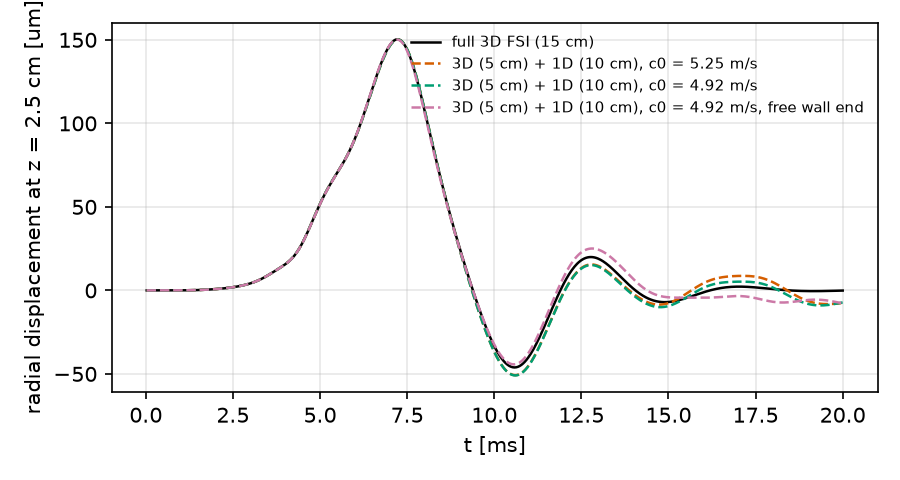
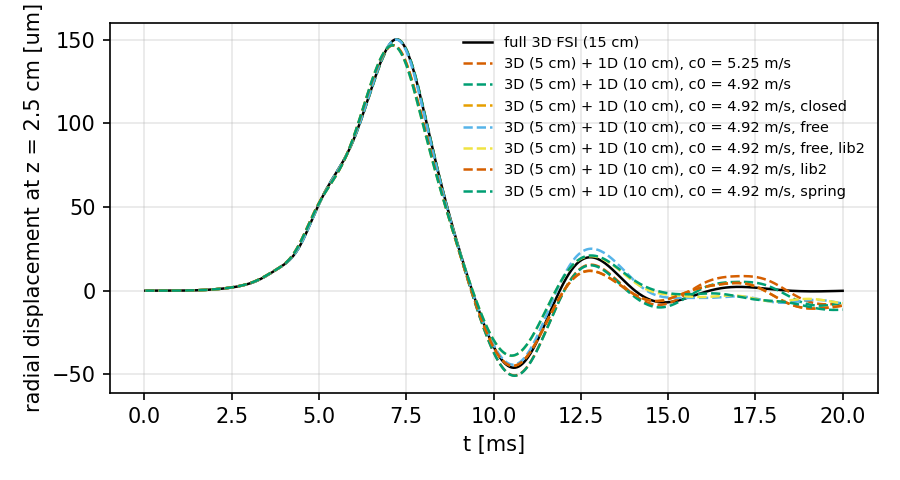
formaggia2007: the wall's cut end on an elastic support (item 8a)
--springEnd: solidSpringDashpot on the cut with the semi-infinite shell's
edge stiffness 2 D beta^3 / h (1.04e7 Pa/m), free axially. All end
conditions compared within one build of solids4foam (the installed
library lacks the condition; the build also moves the FSI results by a
few percent, so full3D_lib2 and the _lib2 reruns are the references for
it; analyse.py picks the reference by run name, and the closed-end runs
by full3D_closed). The spring end behaves nearly as the free end (the
edge stiffness is a sixth of the ring's hoop stiffness); the full tube
lies between clamped and free at every section, so the condition that
reproduces it is the continuity of area proper, a radial displacement
driven by the 1D area, which is not built. --endTime added (the
closed-end variant needs 70 ms for the return).

diff --git a/tutorials/circulationModels/coupling3D1D/formaggia2007/analyse.py b/tutorials/circulationModels/coupling3D1D/formaggia2007/analyse.py
@@ -132,12 +132,37 @@ def c0_of(case):
     return math.nan
 
 
+def executable(case):
+    """The solids4Foam executable a run used (its log's Exec line)"""
+    log = RUNS/case/"log.solids4Foam"
+    if log.is_file():
+        for line in log.read_text().splitlines()[:40]:
+            if line.startswith("Exec"):
+                return line.split(":", 1)[1].strip()
+    return ""
+
+
+def ref_for(c):
+    """The full tube a coupled run is compared with: the closed one for a
+    _closed run; otherwise the full tube made with the same solids4Foam
+    executable (full3D_lib2 for runs of the second scratch build, which
+    changes the FSI results by a few percent), else full3D"""
+    if c.endswith("_closed"):
+        return "full3D_closed"
+    # the runs made with the checkout's own build carry _lib2 or _spring
+    # (the installed library has no solidSpringDashpot)
+    if any(t in c for t in ("_lib2", "_spring")) \
+            and finished("full3D_lib2", "log.solids4Foam"):
+        return "full3D_lib2"
+    return "full3D"
+
+
 def main():
     coupled = sorted(p.name for p in RUNS.glob("coupled*") if p.is_dir())
     lines = ["# Formaggia et al. (2007), section 5: the pulse tube continued "
              "by a 1D vessel", ""]
     data = {}
-    for ref in ("full3D", "full3D_closed"):
+    for ref in ("full3D", "full3D_closed", "full3D_lib2"):
         if (RUNS/ref/"postProcessing"/"fluid").is_dir():
             if not finished(ref, "log.solids4Foam"):
                 lines += [f"**{ref} has not finished: partial data.**", ""]
@@ -162,8 +187,7 @@ def main():
         for c in coupled:
             if c not in data:
                 continue
-            # A closed-end run is compared with the closed full tube
-            ref = "full3D_closed" if c.endswith("_closed") else "full3D"
+            ref = ref_for(c)
             if ref not in data:
                 continue
             lines += [f"## {c}: 1D c0 = {c0_of(c):.3g} m/s (against {ref})", "",
@@ -215,11 +239,16 @@ def figure(data, coupled):
     (HERE/"plots").mkdir(exist_ok=True)
     style = {"full3D": ("k", "-", "full 3D FSI (15 cm)"),
              "only1D": ("#0072B2", ":", "1D alone (15 cm)")}
-    cols = ["#D55E00", "#009E73", "#CC79A7", "#E69F00"]
+    style["full3D_closed"] = ("k", "--", "full FSI tube, closed far end")
+    style["full3D_lib2"] = ("gray", "-", "full FSI tube (checkout build)")
+    cols = ["#D55E00", "#009E73", "#CC79A7", "#E69F00", "#56B4E9", "#F0E442"]
     for i, c in enumerate(coupled):
+        tags = [t for t, w in (("free", "free wall end"), ("spring", "spring wall end"),
+                               ("closed", "closed far end"), ("lib2", "checkout build"))
+                if f"_{t}" in c]
         style[c] = (cols[i % len(cols)], "--",
                     f"3D (5 cm) + 1D (10 cm), c0 = {c0_of(c):.3g} m/s"
-                    + (", free wall end" if c.endswith("_free") else ""))
+                    + "".join(", " + w for w in tags))
     planes = [z for z in PLANES_CM if any(z in d for d in data.values())]
     for col, ylabel, scale in (("P", "mean pressure [Pa]", 1),
                                ("Q", "flow [ml/s]", 1e6)):
@@ -230,7 +259,7 @@ def figure(data, coupled):
                                 sharex=True, sharey=True, squeeze=False)
         for ax, zcm in zip(axs.flat, planes):
             for case, secs in data.items():
-                if zcm in secs:
+                if zcm in secs and case in style:
                     t, P, Q = secs[zcm]
                     c, ls, label = style[case]
                     ax.plot(1e3*t, scale*(P if col == "P" else Q), color=c,
@@ -252,6 +281,8 @@ def figure(data, coupled):
     if "full3D" in data and coupled:
         fig, ax = plt.subplots(figsize=(6, 3.2))
         for case in ["full3D"] + [c for c in coupled if c in data]:
+            if case not in style:
+                continue
             t, D = displacement(case)
             c, ls, label = style[case]
             ax.plot(1e3*t, 1e6*D, color=c, ls=ls, lw=1.2, label=label)

diff --git a/tutorials/circulationModels/coupling3D1D/formaggia2007/makeCases.py b/tutorials/circulationModels/coupling3D1D/formaggia2007/makeCases.py
@@ -87,7 +87,7 @@ def zone_name(zcm):
     return "z" + f"{zcm:g}".replace(".", "p")
 
 
-def control_dict(coupled, planes, dt):
+def control_dict(coupled, planes, dt, end=END_TIME):
     libs ='libs            ("libcirculation1DCoupling.so");\n\n' if coupled else ""
     fos = ""
     for zcm in planes:
@@ -112,7 +112,7 @@ def control_dict(coupled, planes, dt):
 startFrom       startTime;
 startTime       0;
 stopAt          endTime;
-endTime         {END_TIME};
+endTime         {end};
 deltaT          {dt:g};
 writeControl    runTime;
 writeInterval   1e-3;
@@ -338,7 +338,7 @@ def shell_edge_stiffness():
 
 
 def make_3d(name, length, coupled, c0, dt, force, free_end=False,
-            spring_end=False, closed_end=False):
+            spring_end=False, closed_end=False, end=END_TIME):
     case = RUNS/name
     if case.exists() and finished(case) and not force:
         print(f"{name}: finished, kept")
@@ -352,7 +352,7 @@ def make_3d(name, length, coupled, c0, dt, force, free_end=False,
              [(r"(\(\s*[-\d.e]+\s+[-\d.e]+\s+)0\.05\)", rf"\g<1>{length:g})"),
               (r" 80\)", f" {n})")])
     planes = [z for z in PLANES_CM if z*1e-2 < length]
-    (case/"system"/"controlDict").write_text(control_dict(coupled, planes, dt))
+    (case/"system"/"controlDict").write_text(control_dict(coupled, planes, dt, end))
     (case/"system"/"fluid"/"topoSetDict").write_text(topo_set_dict(planes))
     if coupled:
         edit(case/"0"/"fluid"/"p",
@@ -436,13 +436,15 @@ def main():
                     help="the far end closed (full3D_closed and coupled_..._closed): the pulse returns from the 1D side")
     ap.add_argument("--force", action="store_true",
                     help="rewrite finished runs too")
+    ap.add_argument("--endTime", type=float, default=END_TIME,
+                    help=f"end time [s] (default {END_TIME:g}; the closed end needs 0.07 for the return)")
     args = ap.parse_args()
     c0 = args.c0 if args.c0 else c0_plane_strain()
     print(f"plane-strain static match: c0 = {c0_plane_strain():.4g} m/s; "
           f"using {c0:.4g} m/s, E1D = {youngs1D(c0):.4g} Pa")
     RUNS.mkdir(exist_ok=True)
     make_3d("full3D" + ("_closed" if args.closedEnd else ""), LFULL, False,
-            c0, args.dt, args.force, closed_end=args.closedEnd)
+            c0, args.dt, args.force, closed_end=args.closedEnd, end=args.endTime)
     if args.c0 or args.freeEnd or args.springEnd or args.closedEnd:
         # Another coupled run beside the static-match one, named by its c0
         # and end condition
@@ -451,7 +453,7 @@ def main():
                 + ("_spring" if args.springEnd else "")
                 + ("_closed" if args.closedEnd else ""))
         make_3d(name, L3D, True, c0, args.dt, args.force, args.freeEnd,
-                args.springEnd, args.closedEnd)
+                args.springEnd, args.closedEnd, args.endTime)
     else:
         make_3d("coupled", L3D, True, c0, args.dt, args.force)
         make_1d("only1D", c0, args.force)

diff --git a/tutorials/circulationModels/coupling3D1D/formaggia2007/results.md b/tutorials/circulationModels/coupling3D1D/formaggia2007/results.md
@@ -1,10 +1,12 @@
 # Formaggia et al. (2007), section 5: the pulse tube continued by a 1D vessel
 
-3D wave speed (half-peak arrival at z = 1.25, 2.5, 3.75, 5, 6.25, 7.5 cm): 4.917 m/s
+3D wave speed of full3D (half-peak arrival at z = 1.25, 2.5, 3.75, 5, 6.25, 7.5 cm): 4.917 m/s
+
+3D wave speed of full3D_lib2 (half-peak arrival at z = 1.25, 2.5, 3.75, 5, 6.25, 7.5 cm): 4.912 m/s
 
 1D wave speed, same measure (1D alone): 5.415 m/s
 
-## coupled: 1D c0 = 5.25 m/s
+## coupled: 1D c0 = 5.25 m/s (against full3D)
 
 | z [cm] | where | peak P full3D / coupled / 1D alone [Pa] | arrival full3D / coupled / 1D alone [ms] | RMS(P coupled - full3D) / pulse | RMS(Q coupled - full3D) / peak Q |
 |---|---|---|---|---|---|
@@ -19,7 +21,7 @@
 
 Radial wall displacement at z = 2.5 cm: peak 150.32 um (full3D), 150.18 um (coupled); RMS difference 3.500 um
 
-## coupled_c4p92: 1D c0 = 4.92 m/s
+## coupled_c4p92: 1D c0 = 4.92 m/s (against full3D)
 
 | z [cm] | where | peak P full3D / coupled / 1D alone [Pa] | arrival full3D / coupled / 1D alone [ms] | RMS(P coupled - full3D) / pulse | RMS(Q coupled - full3D) / peak Q |
 |---|---|---|---|---|---|
@@ -34,7 +36,22 @@ Radial wall displacement at z = 2.5 cm: peak 150.32 um (full3D), 150.18 um (coup
 
 Radial wall displacement at z = 2.5 cm: peak 150.32 um (full3D), 150.16 um (coupled_c4p92); RMS difference 3.315 um
 
-## coupled_c4p92_free: 1D c0 = 4.92 m/s
+## coupled_c4p92_closed_20ms: 1D c0 = 4.92 m/s (against full3D)
+
+| z [cm] | where | peak P full3D / coupled / 1D alone [Pa] | arrival full3D / coupled / 1D alone [ms] | RMS(P coupled - full3D) / pulse | RMS(Q coupled - full3D) / peak Q |
+|---|---|---|---|---|---|
+| 1.25 | 3D | 1388 / 1352 / 1338 | 2.74 / 2.71 / 2.30 | 3.13e-02 | 4.92e-02 |
+| 2.5 | 3D | 1288 / 1303 / 1332 | 5.26 / 5.19 / 4.60 | 3.15e-02 | 9.24e-02 |
+| 3.75 | 3D | 1133 / 1169 / 1330 | 7.90 / 7.93 / 6.91 | 4.81e-02 | 8.25e-02 |
+| 5 | port | 1093 / 1104 / 1328 | 10.42 / 10.27 / 9.22 | 5.10e-02 | 1.19e-01 |
+| 6.25 | 1D | 1053 / 1096 / 1327 | 12.96 / 12.72 / 11.53 | 7.55e-02 | 1.54e-01 |
+| 7.5 | 1D | 993 / 1091 / 1325 | 15.41 / 15.18 / 13.84 | 6.48e-02 | 2.10e-01 |
+| 10 | 1D | 486 / 632 / 1322 | nan / nan / 18.46 | 2.09e-02 | 1.96e-01 |
+| 12.5 | 1D | 38 / 38 / 0 | nan / nan / nan | 2.12e-02 | 4.58e-01 |
+
+Radial wall displacement at z = 2.5 cm: peak 150.32 um (full3D), 146.76 um (coupled_c4p92_closed_20ms); RMS difference 4.242 um
+
+## coupled_c4p92_free: 1D c0 = 4.92 m/s (against full3D)
 
 | z [cm] | where | peak P full3D / coupled / 1D alone [Pa] | arrival full3D / coupled / 1D alone [ms] | RMS(P coupled - full3D) / pulse | RMS(Q coupled - full3D) / peak Q |
 |---|---|---|---|---|---|
@@ -48,3 +65,48 @@ Radial wall displacement at z = 2.5 cm: peak 150.32 um (full3D), 150.16 um (coup
 | 12.5 | 1D | 38 / 11 / 0 | nan / nan / nan | 2.12e-02 | 4.56e-01 |
 
 Radial wall displacement at z = 2.5 cm: peak 150.32 um (full3D), 150.14 um (coupled_c4p92_free); RMS difference 3.525 um
+
+## coupled_c4p92_free_lib2: 1D c0 = 4.92 m/s (against full3D_lib2)
+
+| z [cm] | where | peak P full3D / coupled / 1D alone [Pa] | arrival full3D / coupled / 1D alone [ms] | RMS(P coupled - full3D) / pulse | RMS(Q coupled - full3D) / peak Q |
+|---|---|---|---|---|---|
+| 1.25 | 3D | 1352 / 1352 / 1338 | 2.71 / 2.71 / 2.30 | 4.29e-02 | 6.01e-02 |
+| 2.5 | 3D | 1271 / 1233 / 1332 | 5.26 / 5.33 / 4.60 | 4.39e-02 | 1.26e-01 |
+| 3.75 | 3D | 1132 / 1108 / 1330 | 7.89 / 7.82 / 6.91 | 2.50e-02 | 1.98e-01 |
+| 5 | port | 1077 / 1093 / 1328 | 10.42 / 10.47 / 9.22 | 1.84e-02 | 1.10e-01 |
+| 6.25 | 1D | 1045 / 1085 / 1327 | 12.94 / 12.93 / 11.53 | 3.63e-02 | 1.44e-01 |
+| 7.5 | 1D | 984 / 1081 / 1325 | 15.41 / 15.38 / 13.84 | 3.30e-02 | 1.73e-01 |
+| 10 | 1D | 492 / 555 / 1322 | nan / nan / 18.46 | 2.09e-02 | 1.71e-01 |
+| 12.5 | 1D | 36 / 11 / 0 | nan / nan / nan | 1.98e-02 | 4.55e-01 |
+
+Radial wall displacement at z = 2.5 cm: peak 146.89 um (full3D_lib2), 146.74 um (coupled_c4p92_free_lib2); RMS difference 3.220 um
+
+## coupled_c4p92_lib2: 1D c0 = 4.92 m/s (against full3D_lib2)
+
+| z [cm] | where | peak P full3D / coupled / 1D alone [Pa] | arrival full3D / coupled / 1D alone [ms] | RMS(P coupled - full3D) / pulse | RMS(Q coupled - full3D) / peak Q |
+|---|---|---|---|---|---|
+| 1.25 | 3D | 1352 / 1352 / 1338 | 2.71 / 2.71 / 2.30 | 2.59e-02 | 5.04e-02 |
+| 2.5 | 3D | 1271 / 1303 / 1332 | 5.26 / 5.19 / 4.60 | 3.01e-02 | 9.04e-02 |
+| 3.75 | 3D | 1132 / 1169 / 1330 | 7.89 / 7.93 / 6.91 | 4.59e-02 | 8.24e-02 |
+| 5 | port | 1077 / 1104 / 1328 | 10.42 / 10.27 / 9.22 | 4.40e-02 | 1.10e-01 |
+| 6.25 | 1D | 1045 / 1096 / 1327 | 12.94 / 12.72 / 11.53 | 6.87e-02 | 1.48e-01 |
+| 7.5 | 1D | 984 / 1091 / 1325 | 15.41 / 15.18 / 13.84 | 5.99e-02 | 2.05e-01 |
+| 10 | 1D | 492 / 632 / 1322 | nan / nan / 18.46 | 2.03e-02 | 1.84e-01 |
+| 12.5 | 1D | 36 / 38 / 0 | nan / nan / nan | 1.99e-02 | 4.56e-01 |
+
+Radial wall displacement at z = 2.5 cm: peak 146.89 um (full3D_lib2), 146.76 um (coupled_c4p92_lib2); RMS difference 3.599 um
+
+## coupled_c4p92_spring: 1D c0 = 4.92 m/s (against full3D_lib2)
+
+| z [cm] | where | peak P full3D / coupled / 1D alone [Pa] | arrival full3D / coupled / 1D alone [ms] | RMS(P coupled - full3D) / pulse | RMS(Q coupled - full3D) / peak Q |
+|---|---|---|---|---|---|
+| 1.25 | 3D | 1352 / 1352 / 1338 | 2.71 / 2.71 / 2.30 | 4.23e-02 | 5.89e-02 |
+| 2.5 | 3D | 1271 / 1233 / 1332 | 5.26 / 5.33 / 4.60 | 5.11e-02 | 1.31e-01 |
+| 3.75 | 3D | 1132 / 1111 / 1330 | 7.89 / 7.82 / 6.91 | 2.52e-02 | 2.13e-01 |
+| 5 | port | 1077 / 1098 / 1328 | 10.42 / 10.43 / 9.22 | 2.21e-02 | 1.13e-01 |
+| 6.25 | 1D | 1045 / 1089 / 1327 | 12.94 / 12.89 / 11.53 | 4.62e-02 | 1.43e-01 |
+| 7.5 | 1D | 984 / 1084 / 1325 | 15.41 / 15.35 / 13.84 | 3.76e-02 | 1.78e-01 |
+| 10 | 1D | 492 / 572 / 1322 | nan / nan / 18.46 | 2.04e-02 | 1.71e-01 |
+| 12.5 | 1D | 36 / 11 / 0 | nan / nan / nan | 1.98e-02 | 4.55e-01 |
+
+Radial wall displacement at z = 2.5 cm: peak 146.89 um (full3D_lib2), 146.74 um (coupled_c4p92_spring); RMS difference 4.068 um

diff --git a/src/circulationModels/docs/PAPER_RESULTS.md b/src/circulationModels/docs/PAPER_RESULTS.md
@@ -232,14 +232,28 @@ velocity profile (max over eight instants of max |u - u_exact| / max
 |u_exact|). The time error is negligible: the 25 x 50 level at dt = 0.25
 and 0.125 ms gives the same errors to three digits (verified).
 
-Results so far (the 100 x 200 level is running; a referee will want all
-three): 25 x 50: ports 2.3e-5; 50 x 100: 4.3e-6 (order 2.4 between them);
-the profile errors and the third level to follow. Against the pipe of
-radius R instead of the equal-area pipe the port errors are 5.9e-5 and
-8.0e-5, i.e. no convergence, which is how the wedge-area effect was found.
-alpha = 3 and 12 on the two cheaper levels are running (at alpha = 3 the
-PIMPLE loop of the tutorial runs to its iteration cap on the base mesh;
-whether that limits the error will be stated).
+Results (the 100 x 200 level at alpha = 6 is still running; `space_alpha3.md`,
+`space_alpha12.md` verified):
+
+| alpha | mesh | ports (P, Q) | order | mid-length profile | order | PIMPLE it./step | wall time |
+|---|---|---|---|---|---|---|---|
+| 3 | 25 x 50 | 3.43e-5 | | 7.68e-3 | | 15.6 | 139 s |
+| 3 | 50 x 100 | 1.35e-5 | 1.35 | 2.18e-3 | 1.82 | 42.1 (cap of 50 hit on 240 of 2000 steps) | 1531 s |
+| 6 | 25 x 50 | 2.29e-5 | | (to follow) | | 8.9 | 78 s |
+| 6 | 50 x 100 | 4.28e-6 | 2.42 | | | 18.6 | 681 s |
+| 12 | 25 x 50 | 2.48e-5 | | 1.10e-2 | | 6.2 | 57 s |
+| 12 | 50 x 100 | 5.51e-6 | 2.17 | 2.50e-3 | 2.14 | 10.2 | 391 s |
+
+At alpha = 12 and 6 the ports converge at 2.2 to 2.4 and the profile at
+2.1, second order as the schemes are. At alpha = 3 the finer mesh's
+outer loop stalls: 240 of its 2000 steps run to the 50-iteration cap
+(the pressure residual stays near 4e-7 instead of reaching 1e-10, as the
+report noted for this viscosity), and the port order drops to 1.35 with
+the profile at 1.8; so at alpha = 3 the achievable error on the 50 x 100
+mesh (1.35e-5) is limited by the segregated algorithm's convergence, not
+by the mesh. Against the pipe of radius R instead of the equal-area pipe
+the alpha = 6 port errors are 5.9e-5 and 8.0e-5, i.e. no convergence,
+which is how the wedge-area effect was found.
 
 ### 4. The floor in the network case (B6): traced (verified)
 
@@ -383,6 +397,43 @@ BDF schemes, so the FSI runs of this item use a full build of the
 checkout's solids4FoamModels in a second scratch directory; the clamped
 case is rerun with it first to show the library change itself does not
 move the results (pending).
+
+**Library caveat (verified, needs a decision).** The clamped coupled run
+`coupled_c4p92` rerun with the checkout's own solids4FoamModels
+(`coupled_c4p92_lib2`, same case files) differs from the run made with
+the installed February library by 7.4 % of the peak in the port pressure
+(RMS over the 20 ms), 2.6 % in the pressure peak at z = 12.5 mm (1352
+against 1388 Pa) and 2.3 % in the peak wall displacement (146.8 against
+150.2 um). The case is unchanged; the solids4foam FSI machinery between
+the two versions is not (nine months of development on the Robin-Neumann
+coupling and the solid solver, plus this checkout's uncommitted BDF
+moving-mesh files from another session). The full tube is being rerun
+with the same build (`full3D_lib2`) so that every end-condition
+comparison of this item is made within one library; the report's FSI
+numbers (section on Formaggia) belong to the installed library. Which
+version the paper should use is a decision for the author; the
+coupled-against-full comparison is what matters and is being redone
+consistently.
+
+**(a) Result (verified; all four runs with the checkout build,
+`results.md`).** Peaks and RMS differences against `full3D_lib2`:
+
+| z [cm] | full tube [Pa] | clamped | free | spring | RMS(P - full) / pulse: clamped / free / spring |
+|---|---|---|---|---|---|
+| 2.5 | 1271 | 1303 | 1233 | 1233 | 3.0e-2 / 4.4e-2 / 5.1e-2 |
+| 3.75 | 1132 | 1169 | 1108 | 1111 | 4.6e-2 / 2.5e-2 / 2.5e-2 |
+| 5 (interface) | 1077 | 1104 | 1093 | 1098 | 4.4e-2 / 1.8e-2 / 2.2e-2 |
+| 6.25 | 1045 | 1096 | 1085 | 1089 | 6.9e-2 / 3.6e-2 / 4.6e-2 |
+
+The shell's static edge stiffness (1.04e7 Pa/m) is about a sixth of the
+ring's hoop stiffness E h/R^2, so the elastic support behaves nearly as
+the free end; the full tube lies between clamped and free/spring at every
+section. The static stiffness of the continuing wall is not what holds
+the ring in the full tube (its inertia and the pressure on the
+continuation are); the condition to build next is the continuity of area
+proper, a radial displacement of the cut ring driven by the 1D area,
+which needs the coupler to drive a solid boundary (not built; it is
+method development of the kind Phase 3 asks about first).
 
 **(b) The wave returning from the 1D side.** `--closedEnd` writes
 `full3D_closed` (the 15 cm FSI tube with a wall at its far end) and

diff --git a/tutorials/circulationModels/coupling3D1D/formaggia2007/README.md b/tutorials/circulationModels/coupling3D1D/formaggia2007/README.md
@@ -115,6 +115,40 @@ the FSI solver, which is 2; orders 3 and 4 of the coupling itself are
 established on the pimpleFoam cases (`rigidSegment3D`, `dobroserdova2016`,
 `womersleySegment`, `thoracicAorta37`, see `../orderStudy.py`).
 
+## The wall's end at the interface: clamped, free, elastic support
+
+`makeCases.py --c0 4.92 --springEnd` puts the cut end of the wall on an
+elastic support (`solidSpringDashpot`): free axially and, in the plane of
+the cut, the stiffness the continuing wall presents to its edge, taken as
+that of a semi-infinite thin cylindrical shell displaced radially with its
+edge moment free (Timoshenko), `Q = 2 D beta^3 u` per unit circumference
+with `D = E h^3/(12 (1 - nu^2))` and `beta^4 = 3 (1 - nu^2)/(R^2 h^2)`,
+divided by h: 1.04e7 Pa/m here (`shell_edge_stiffness()`). The three end
+conditions against the full tube, all four runs made with the same build
+of solids4foam (the installed library has no `solidSpringDashpot`; see
+`results.md`, the `_lib2` runs and `full3D_lib2`):
+
+| z [cm] | full tube peak [Pa] | clamped | free | spring | RMS(P - full) / pulse: clamped / free / spring |
+|---|---|---|---|---|---|
+| 2.5 | 1271 | 1303 | 1233 | 1233 | 3.0e-2 / 4.4e-2 / 5.1e-2 |
+| 3.75 | 1132 | 1169 | 1108 | 1111 | 4.6e-2 / 2.5e-2 / 2.5e-2 |
+| 5 (interface) | 1077 | 1104 | 1093 | 1098 | 4.4e-2 / 1.8e-2 / 2.2e-2 |
+| 6.25 | 1045 | 1096 | 1085 | 1089 | 6.9e-2 / 3.6e-2 / 4.6e-2 |
+
+(Wall displacement at 2.5 cm: RMS difference 3.6 / 3.2 / 4.1 um.) The
+shell's edge stiffness is about a sixth of the ring's own hoop stiffness
+`E h/R^2`, so the elastic support behaves nearly as the free end: the
+overshoot at 3.75 cm and the interface is gone, the 3D part gains the
+free end's oscillation. The full tube's peaks lie between the clamped and
+the free/spring values at every section, so the condition that matches it
+is stiffer than the continuing shell's static edge stiffness: the cut ring
+in the full tube is held by the wall's inertia and the pressure acting on
+the continuation, not by its static edge stiffness alone. The condition
+to try next is Formaggia's continuity of area itself: the ring's radial
+displacement prescribed from the 1D vessel's area at the interface (a
+coupled Dirichlet condition on the solid), which needs the coupler to
+drive a solid boundary and is not built.
+
 ## Results
 
 See `results.md` and `plots/sections_P.png`, `sections_Q.png`,
